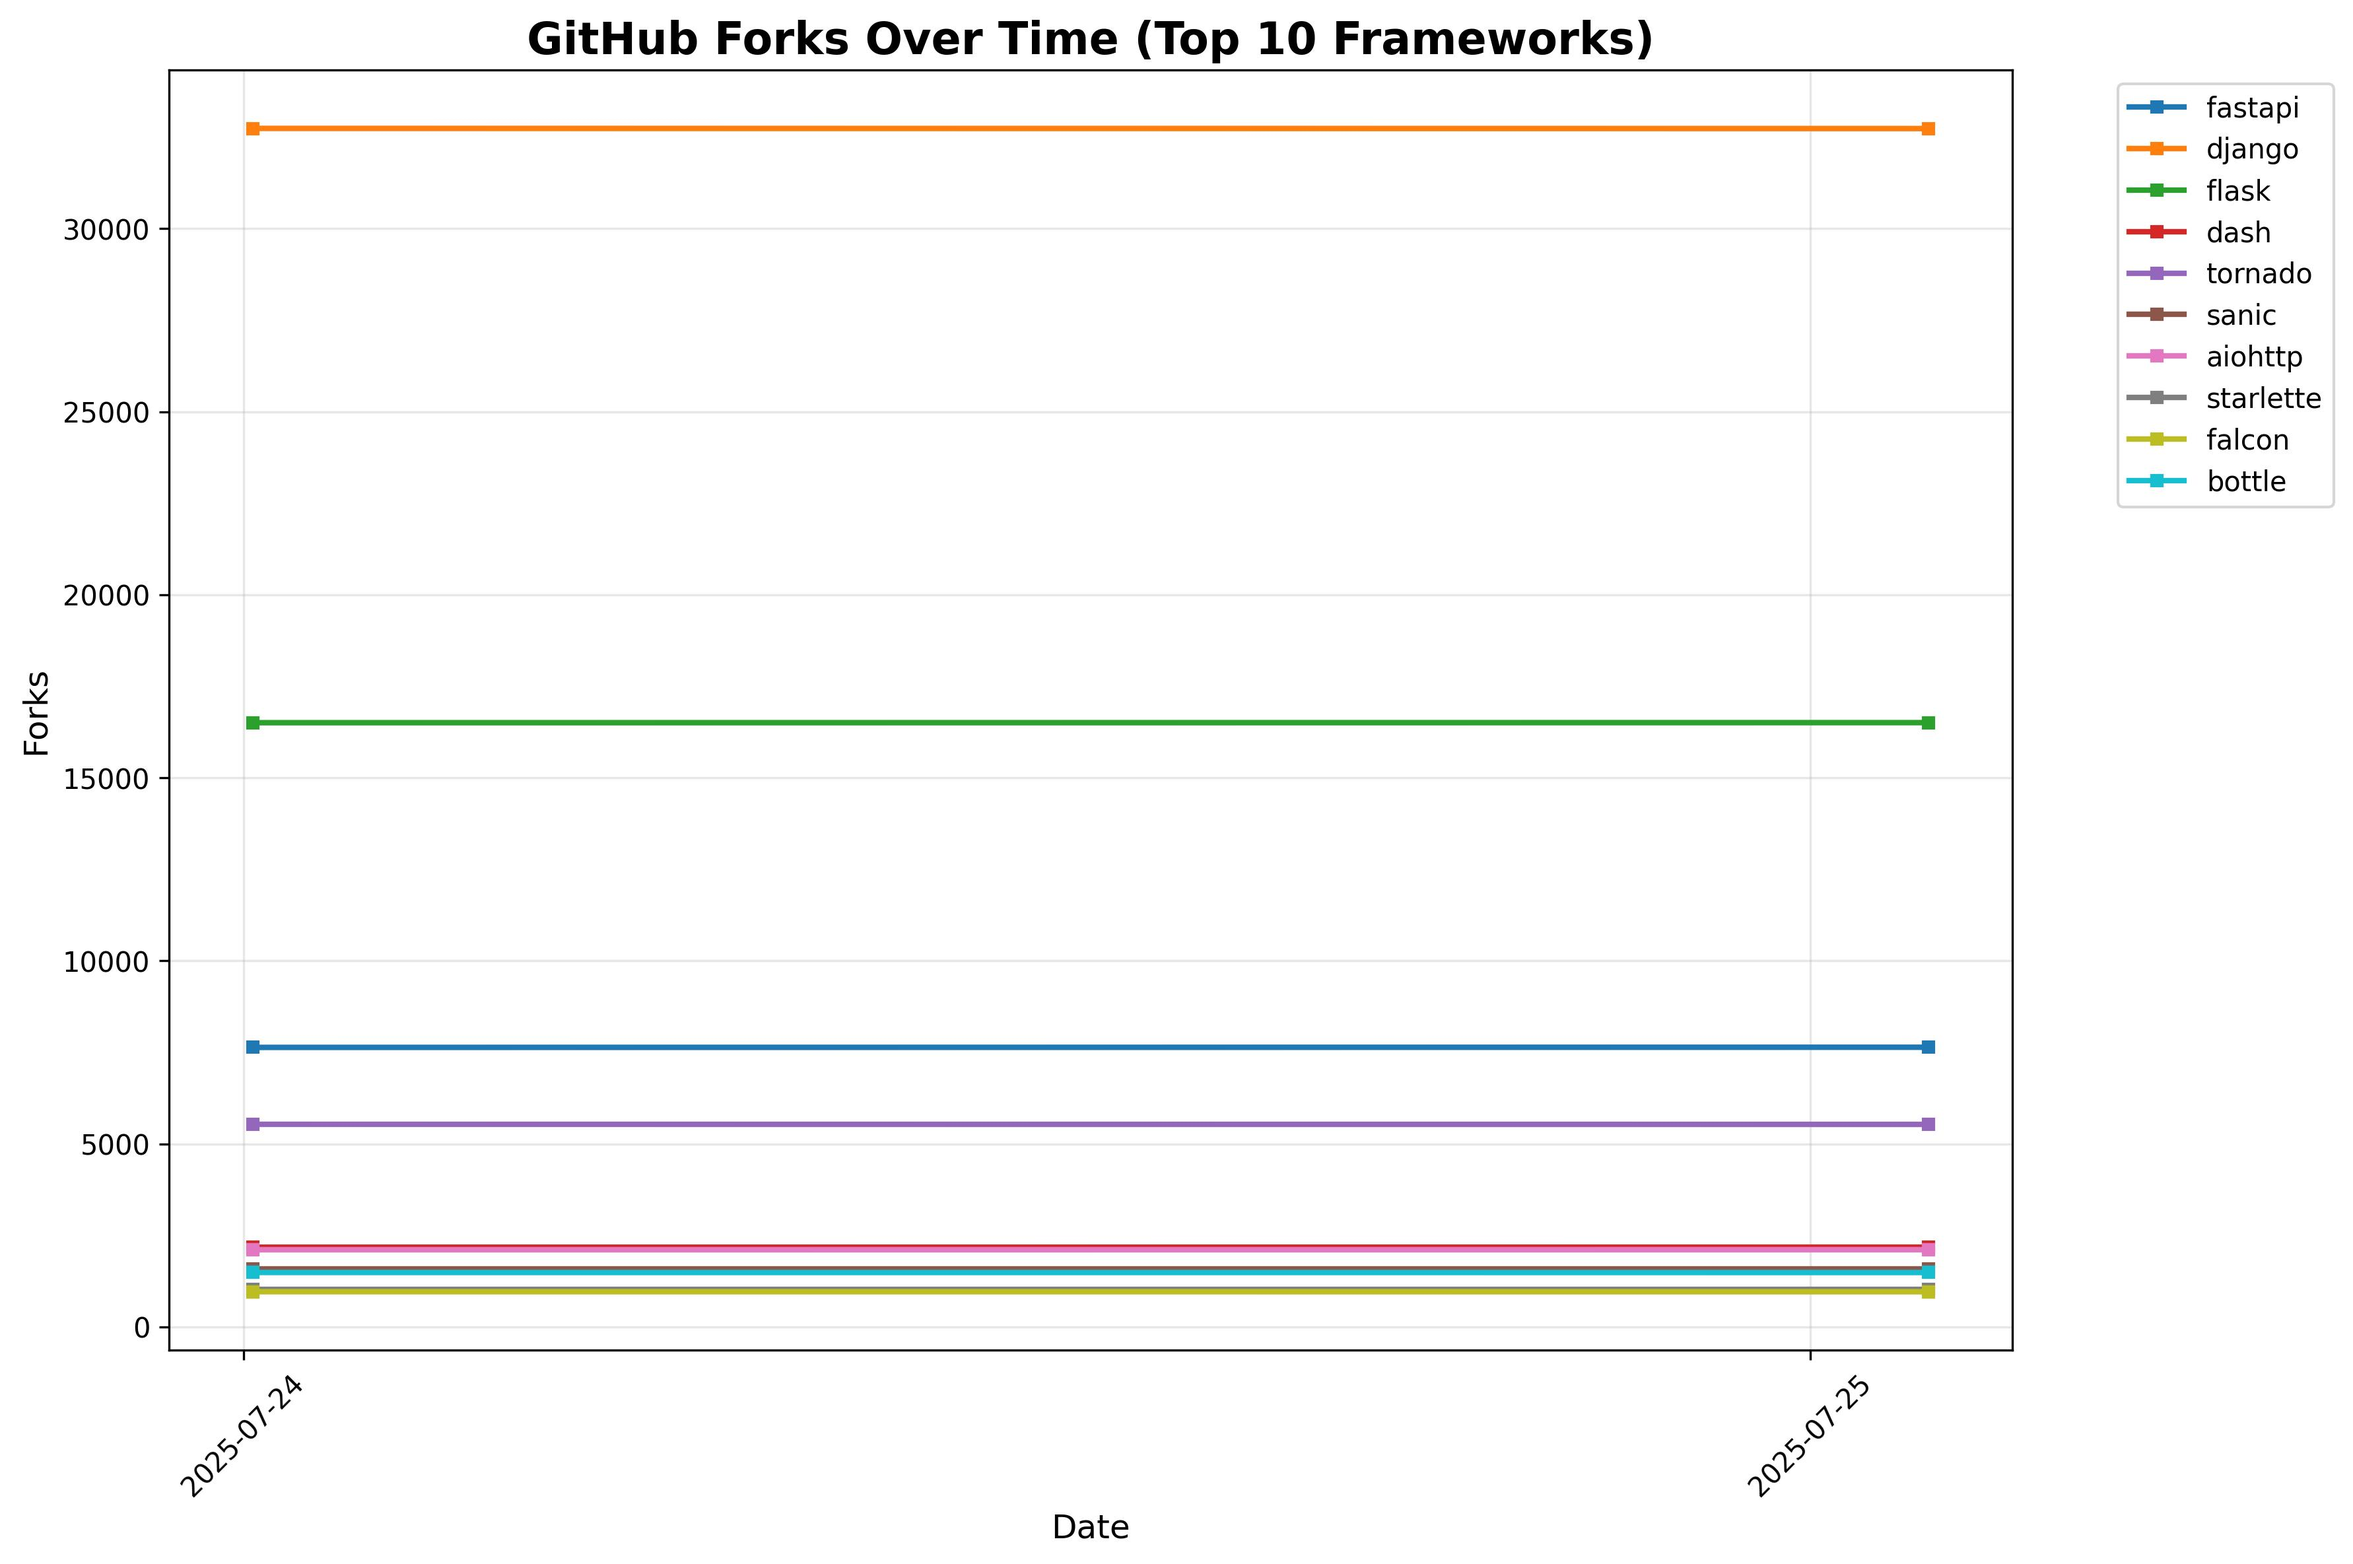
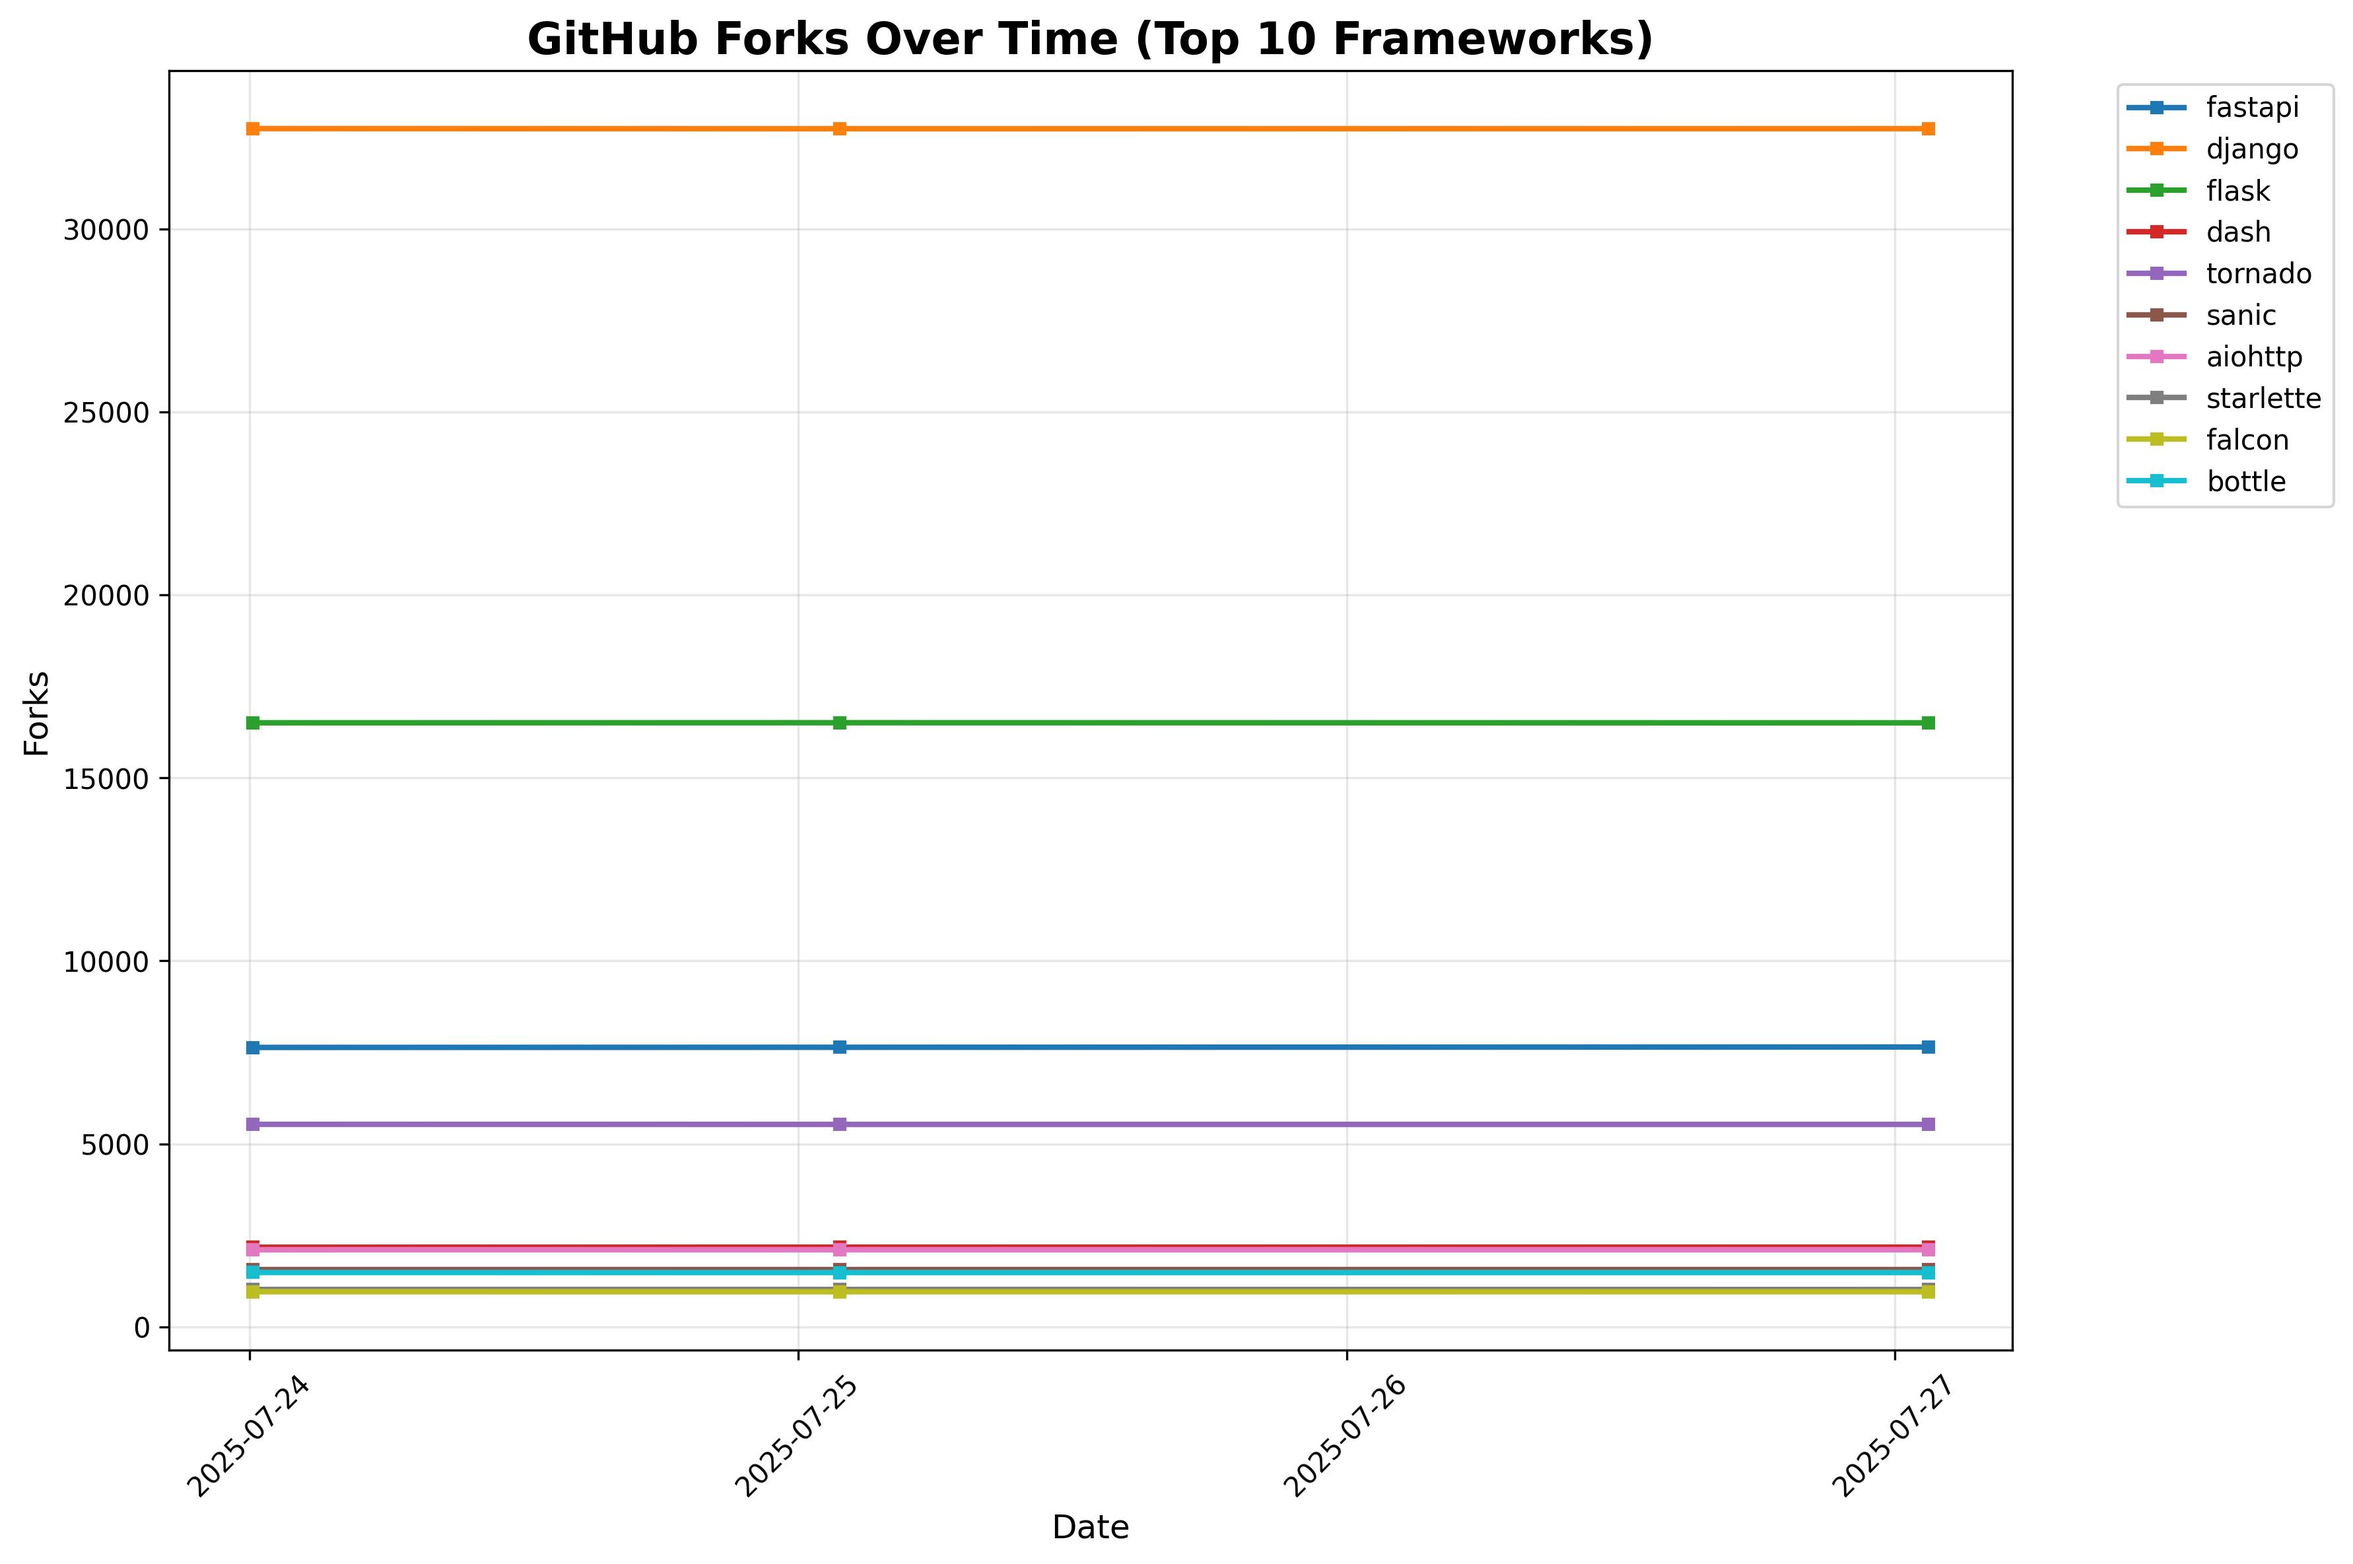
Update framework stars - 2025-07-27 01:28:05 UTC

diff --git a/README.md b/README.md
@@ -1,4 +1,4 @@
-# Public Repository History - Python Web Framework
+# Top Python Web Frameworks
 A list of popular github projects related to Python web framework (ranked by stars automatically)
 
 * UPDATE **list.txt** (via Pull Request)
@@ -7,21 +7,21 @@ A list of popular github projects related to Python web framework (ranked by sta
 
 | Project Name | Stars | Forks | Open Issues | Last Commit |
 | ------------ | ----- | ----- | ----------- | ----------- |
-| [fastapi](https://github.com/fastapi/fastapi) | 87620 | 7639 | 319 | 2025-07-23 13:02:50 |
-| [django](https://github.com/django/django) | 84343 | 32736 | 351 | 2025-07-24 06:39:07 |
-| [flask](https://github.com/pallets/flask) | 70036 | 16507 | 14 | 2025-06-12 20:48:07 |
-| [dash](https://github.com/plotly/dash) | 23516 | 2178 | 539 | 2025-07-18 17:18:35 |
-| [tornado](https://github.com/tornadoweb/tornado) | 22065 | 5532 | 208 | 2025-07-22 20:43:43 |
-| [sanic](https://github.com/sanic-org/sanic) | 18446 | 1575 | 140 | 2025-03-31 21:19:26 |
-| [aiohttp](https://github.com/aio-libs/aiohttp) | 15851 | 2108 | 252 | 2025-07-24 22:37:42 |
-| [starlette](https://github.com/encode/starlette) | 11271 | 1022 | 44 | 2025-07-20 17:29:09 |
-| [falcon](https://github.com/falconry/falcon) | 9692 | 960 | 160 | 2025-07-24 06:42:59 |
-| [bottle](https://github.com/bottlepy/bottle) | 8635 | 1485 | 282 | 2025-06-27 10:14:03 |
+| [fastapi](https://github.com/fastapi/fastapi) | 87685 | 7647 | 290 | 2025-07-26 21:27:58 |
+| [django](https://github.com/django/django) | 84364 | 32738 | 351 | 2025-07-25 11:59:13 |
+| [flask](https://github.com/pallets/flask) | 70047 | 16504 | 14 | 2025-06-12 20:48:07 |
+| [dash](https://github.com/plotly/dash) | 23527 | 2178 | 540 | 2025-07-18 17:18:35 |
+| [tornado](https://github.com/tornadoweb/tornado) | 22070 | 5532 | 208 | 2025-07-22 20:43:43 |
+| [sanic](https://github.com/sanic-org/sanic) | 18449 | 1575 | 140 | 2025-03-31 21:19:26 |
+| [aiohttp](https://github.com/aio-libs/aiohttp) | 15863 | 2108 | 252 | 2025-07-25 10:50:11 |
+| [starlette](https://github.com/encode/starlette) | 11275 | 1021 | 44 | 2025-07-20 17:29:09 |
+| [falcon](https://github.com/falconry/falcon) | 9692 | 960 | 158 | 2025-07-24 06:42:59 |
+| [bottle](https://github.com/bottlepy/bottle) | 8634 | 1485 | 282 | 2025-06-27 10:14:03 |
 | [hug](https://github.com/hugapi/hug) | 6893 | 389 | 187 | 2023-06-30 13:14:01 |
 | [eve](https://github.com/pyeve/eve) | 6731 | 745 | 29 | 2025-06-03 13:00:09 |
 | [vibora](https://github.com/vibora-io/vibora) | 5639 | 301 | 140 | 2019-02-11 10:54:12 |
 | [pyramid](https://github.com/Pylons/pyramid) | 4039 | 889 | 82 | 2024-12-20 23:21:35 |
-| [quart](https://github.com/pallets/quart) | 3369 | 184 | 62 | 2025-06-12 21:05:35 |
+| [quart](https://github.com/pallets/quart) | 3370 | 184 | 62 | 2025-06-12 21:05:35 |
 | [masonite](https://github.com/MasoniteFramework/masonite) | 2292 | 130 | 20 | 2025-03-20 20:11:49 |
 | [web2py](https://github.com/web2py/web2py) | 2151 | 907 | 369 | 2025-07-14 00:48:47 |
 | [cherrypy](https://github.com/cherrypy/cherrypy) | 1913 | 369 | 259 | 2025-07-04 16:22:41 |
@@ -41,5 +41,4 @@ A list of popular github projects related to Python web framework (ranked by sta
 *Charts show the top 10 frameworks by current star count*
 
 
-*Last Automatic Update: 2025-07-25T01:48:33*
-*Inspired by https://github.com/mingrammer/python-web-framework-stars
+*Last Automatic Update: 2025-07-27T01:28:02*
